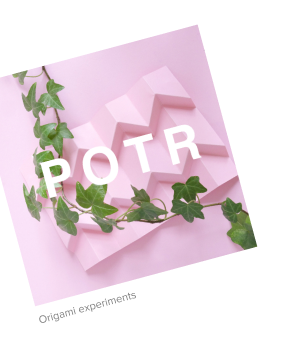
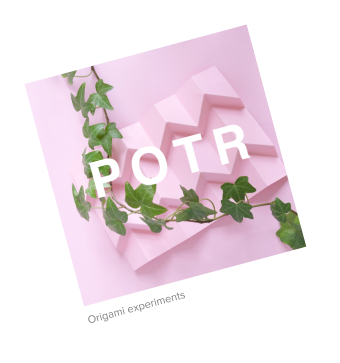
fix circle and header

diff --git a/src/styles/_benefits.scss b/src/styles/_benefits.scss
@@ -1,13 +1,12 @@
 .benefits {
-  height: 823px;
+  max-height: 823px;
   position: relative;
+  overflow: hidden;
 
   &__container {
     display: grid;
-    grid-template-columns: 3fr 4fr;
-    position: relative;
+    grid-template-columns: 1fr 1fr;
     justify-content: space-between;
-    overflow: hidden;
     height: 823px;
 
     @media (max-width: 940px) {
@@ -32,23 +31,31 @@
 
     &--1 {
       left: 0;
-      top: -51px;
+      top: -46px;
     }
 
     &--2 {
-      top: -170px;
-      left: 193px;
+      left: 22%;
+      top: -71px;
+
+      @media (max-width: 1870px) {
+        top: -170px;
+      }
     }
 
     &--3 {
       bottom: 194px;
       left: 0;
       z-index: 1;
+
+      @media (max-width: 1870px) {
+        left: -8%;
+      }
     }
 
     &--4 {
       bottom: 269px;
-      left: 132px;
+      left: 13%;
 
       @media (max-width: 1024px) {
         display: none;
@@ -56,8 +63,13 @@
     }
 
     &--5 {
-      bottom: -96px;
-      left: -70px;
+      left: 12%;
+      bottom: -5%;
+
+      @media (max-width: 1870px) {
+        left: 3%;
+        bottom: -8%;
+      }
 
       @media (max-width: 1024px) {
         display: none;
@@ -65,8 +77,13 @@
     }
 
     &--6 {
-      bottom: -62px;
-      left: 170px;
+      left: 25%;
+      bottom: 3%;
+
+      @media (max-width: 1870px) {
+        left: 20%;
+        bottom: -9%;
+      }
 
       @media (max-width: 1170px) {
         display: none;
@@ -89,7 +106,7 @@
   &__advantages {
     display: flex;
     flex-direction: column;
-    margin-top: 180px;
+    margin-top: 100px;
 
     @media (max-width: 940px) {
       margin-top: 0;

diff --git a/src/styles/_nav.scss b/src/styles/_nav.scss
@@ -32,10 +32,6 @@
 
     &--basket {
       display: none;
-
-      @media (max-width: 995px) {
-        display: inherit;
-      }
     }
 
     &:hover {
@@ -90,24 +86,31 @@
         transform: rotate(90deg);
       }
 
-      & ~ .nav__list {
-        display: flex;
-        flex-direction: column;
-        align-items: center;
-        padding: 20px 1px;
-        background-color: #03839e;
-        width: 450px;
-        height: 450px;
-        position: absolute;
-        top: 0;
-        right: 0;
+      & ~ .nav {
 
-        & .nav__link {
-          display: block;
-        }
+        &__list {
+          display: flex;
+          flex-direction: column;
+          align-items: center;
+          padding: 20px 1px;
+          background-color: #03839e;
+          width: 450px;
+          height: 450px;
+          position: absolute;
+          top: 0;
+          right: 0;
 
-        @media (max-width: 500px) {
-          width: 100vw;
+          & .nav__link {
+            display: block;
+
+            &--basket {
+              display: inherit;
+            }
+          }
+
+          @media (max-width: 500px) {
+            width: 100vw;
+          }
         }
       }
     }

diff --git a/src/styles/_questions.scss b/src/styles/_questions.scss
@@ -5,22 +5,32 @@
 
   &__container {
     position: relative;
-
-    @media (max-width: 550px) {
-      overflow-x: hidden;
-    }
   }
 
   &__img {
     position: absolute;
-    right: -1%;
+    right: 32%;
     top: -67px;
+    background: url(../images/circle.png) 1% no-repeat;
+    width: 18%;
+    height: 48%;
 
-    @media (max-width: 1170px) {
-      right: 0;
+    @media (max-width: 1920px) {
+      right: 14%;
     }
-    @media (max-width: 550px) {
-      right: -23%;
+    @media (max-width: 1440px) {
+      right: -4%;
+    }
+    @media (max-width: 1170px) {
+      right: -4%;
+    }
+    @media (max-width: 850px) {
+      width: 26%;
+    }
+    @media (max-width: 500px) {
+      width: 32%;
+      height: 31%;
+      right: 0;
     }
   }
 
@@ -40,7 +50,6 @@
     @media (max-width: 750px) {
       display: flex;
       flex-wrap: wrap;
-      // justify-content: center;
     }
   }
 
@@ -51,5 +60,15 @@
   &__title {
     font-size: 24px;
     color: rgba(0, 0, 0, 0.39);
+  }
+
+  &__contacts {
+
+    @media (max-width: 750px) {
+      margin-left: 20px;
+    }
+    @media (max-width: 490px) {
+      margin-left: 0;
+    }
   }
 }

diff --git a/src/index.html b/src/index.html
@@ -437,11 +437,7 @@
       <section class="questions">
 
         <div class="container questions__container">
-          <img
-            src="images/circle.png"
-            alt="potr label"
-            class="questions__img"
-          >
+          <div class="questions__img"></div>
           <a name="message">
             <h2 class="questions__heading">have any questions?</h2>
           </a>

diff --git a/src/styles/_form.scss b/src/styles/_form.scss
@@ -31,13 +31,17 @@
     border: none;
     margin-top: 40px;
     cursor: pointer;
+    transition: 0.3s linear;
+    padding: 15px 25px;
+    transform: translateX(100%);
 
     &:hover {
       color: #000;
+      border: 1px dashed $turquoise;
+      border-radius: 40px;
     }
 
     @media (max-width: 700px) {
-      transform: translateX(100%);
       font-weight: bold;
     }
   }

diff --git a/src/styles/_arrow-link.scss b/src/styles/_arrow-link.scss
@@ -1,6 +1,7 @@
 .arrow-link {
   position: absolute;
-  top: 65%;
+  // top: 65%;
+  bottom: 19%;
   left: -5%;
   font-family: ProximaNova, sans-serif;
   font-size: 12px;
@@ -11,7 +12,7 @@
     left: 0;
   }
 
-  @media (max-width: 700px) {
+  @media (max-width: 600px) {
     display: none;
   }
 

diff --git a/src/styles/_clients.scss b/src/styles/_clients.scss
@@ -1,6 +1,6 @@
 .clients {
 
-  @media (max-width: 700px) {
+  @media (max-width: 620px) {
     margin-top: 100px;
   }
 
@@ -9,6 +9,8 @@
   }
 
   &__vertical-link {
+
+    top: 8%;
 
     @media (max-width: 1170px) {
       right: 0;

diff --git a/src/styles/_header.scss b/src/styles/_header.scss
@@ -32,6 +32,7 @@
   &__main {
     display: grid;
     grid-template-columns: auto auto;
+    grid-template-rows: 537px;
     column-gap: 20px;
     justify-content: space-between;
     padding-top: 63.7px;
